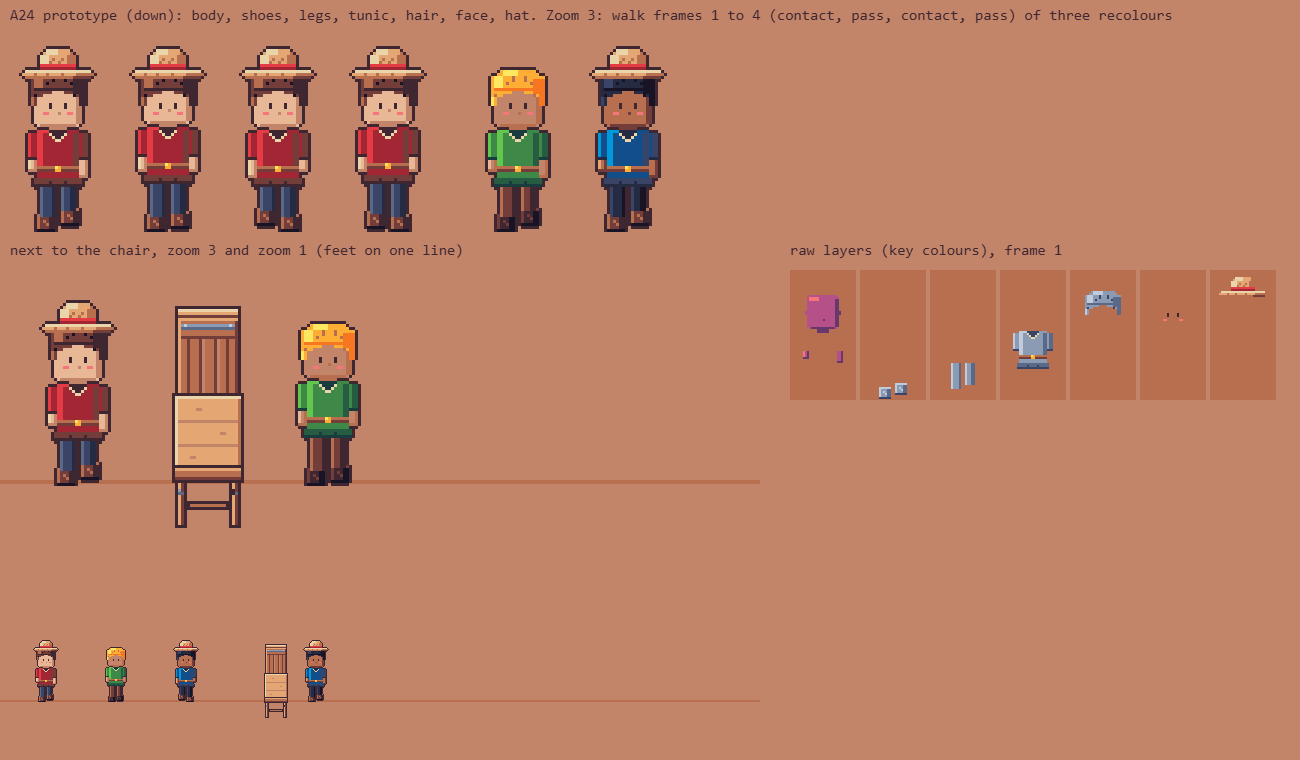
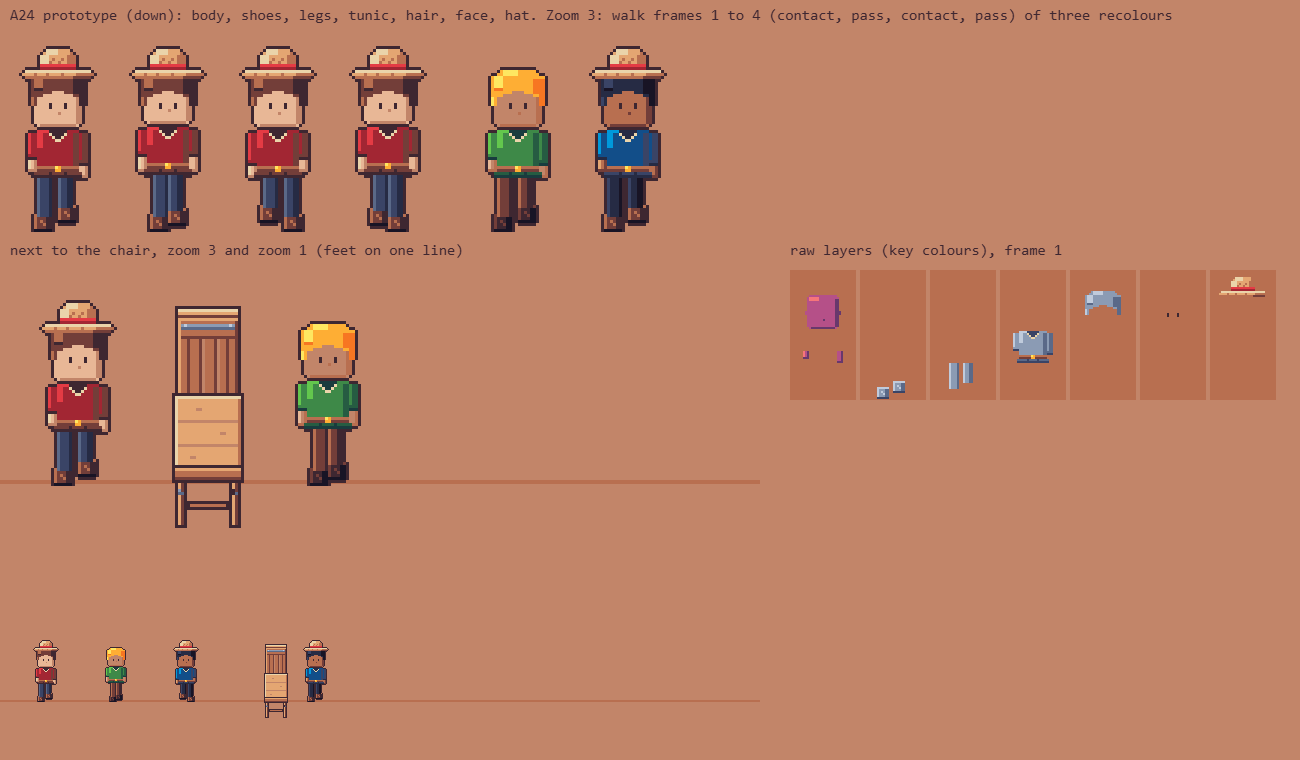
Owner agenda: empty hotbar slot bug, hands-on tap pouring (G2)

diff --git a/docs/FIXLIST.md b/docs/FIXLIST.md
@@ -14,3 +14,11 @@ Open (not fixed, for the manager, tester or artist)
 - Suspect 4 (first 10 minutes): HINTS[0..1] (catalog + place) come before the tavern hint [2], and [2] still says "load it on a tap" although a new game starts with 7 ale already on a tap. Text/order change is a design call: suggest the tavern hint first. Not changed.
 - Suspect 5 (panels at 420x760, 44 px buttons): CSS, goes to the artist (B6). Not checked in a browser.
 - No browser smoke route run in this pass.
+
+## OWNER AGENDA (16 Nov, spoken by the owner; done by the coder as task G2, before 9i)
+1. BUG: an EMPTY slot in the hotbar cannot be clicked/tapped. Fix: an empty slot is selectable (shows empty, selected frame, tooltip "empty"), tapping it deselects the current item; keyboard 1-6 too. Check hold, drag and touch. Test in client/src/ui/hotbar logic.
+2. FEEL: pouring at the tap is boring. It must be PRESSED IN (hold): serving a drink becomes a small hands-on action:
+   - tap a guest with an open drink order: the avatar walks to the tap stand (as now) and waits there; the player PRESSES AND HOLDS the tap (or the pour button over the tap) to pour: the stream runs, the mug fills (a fill bar over the mug, foam on top, glug/pour sound that rises in pitch, the tap lever visibly pulled down, small shake) while the press lasts; release at the full mark (a forgiving window around full) = a perfect pour (small tip bonus, config number, balance test must stay green; no failure that loses the drink: under/over just tastes the same, only the bonus is missed); the mug is taken from the tap's mugs as today (T1 rules, "Tap is empty" keeps the order open).
+   - THEN the player must tap the guest's TABLE/seat to deliver: the avatar carries the mug to the table, sets it down with a clink (not automatic any more). A queue of up to 3 carried orders stays as is.
+   - Offline/away serving and the first-ten-minutes guide must still work (guide step "serve" = pour + deliver); the pour must work with touch (hold) and mouse; keep POUR_MS as the minimum/default duration for the animation; Reduce effects keeps the sounds.
+   - This changes the T1 rule "the avatar POURS (POUR_MS 800 ms) automatically": update CLAUDE.md section 9 (THE BAR AND THE TAPS) and docs/BRIEF.md after it lands (the owner asked for it).

diff --git a/docs/QUEUE.md b/docs/QUEUE.md
@@ -288,3 +288,6 @@ OUTPUT: a short list of crashes, missing sprites, layout problems and anything t
 5. The plugin: the Aseprite plugin is not attached now. Recommended: run all CODE-ART tasks (B1 to B6) meanwhile; they improve the look without it and none is wasted (sprites replace code art piece by piece).
 6. Push to GitHub: still the user's call (a push deploys). Recommended: ask after CP-1 passes and G1 is done.
 Everything else in this queue is decided (door design, hat list, tier numbers, folders, content list).
+
+### G2 OWNER AGENDA (16 Nov, urgent, right after the running coder task): see docs/FIXLIST.md OWNER AGENDA
+GOAL: (1) empty hotbar slots must be clickable; (2) hands-on pouring: press and hold the tap to fill the mug, release at the full mark, then tap the guest/table to deliver. Rules in shared/ (pour progress, perfect window, tip bonus config), client wiring in game/tavernLife.ts + render/tavernFx.ts + sound.ts, UI in ui/hotbar.ts; the UI worker styles the pour bar afterwards. Tests for the pour rules and the hotbar. Update CLAUDE.md section 9 after.
